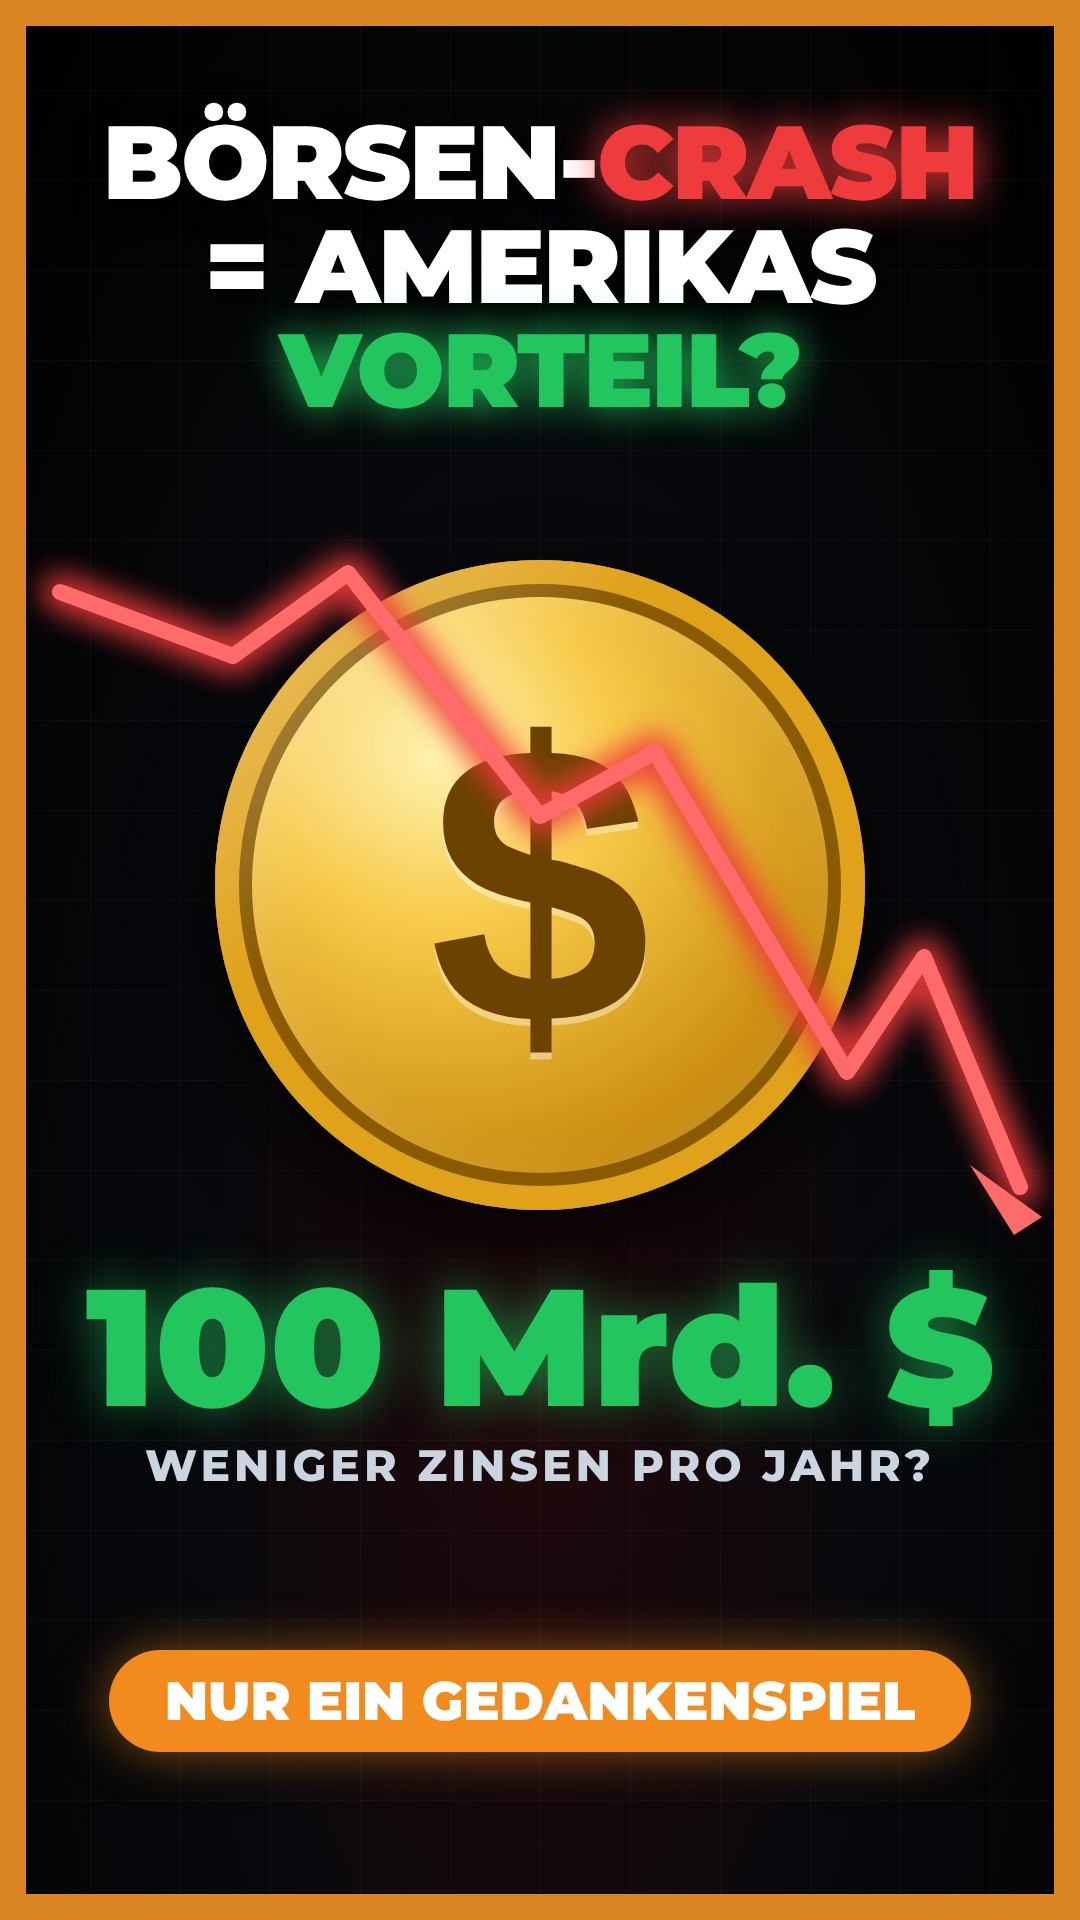
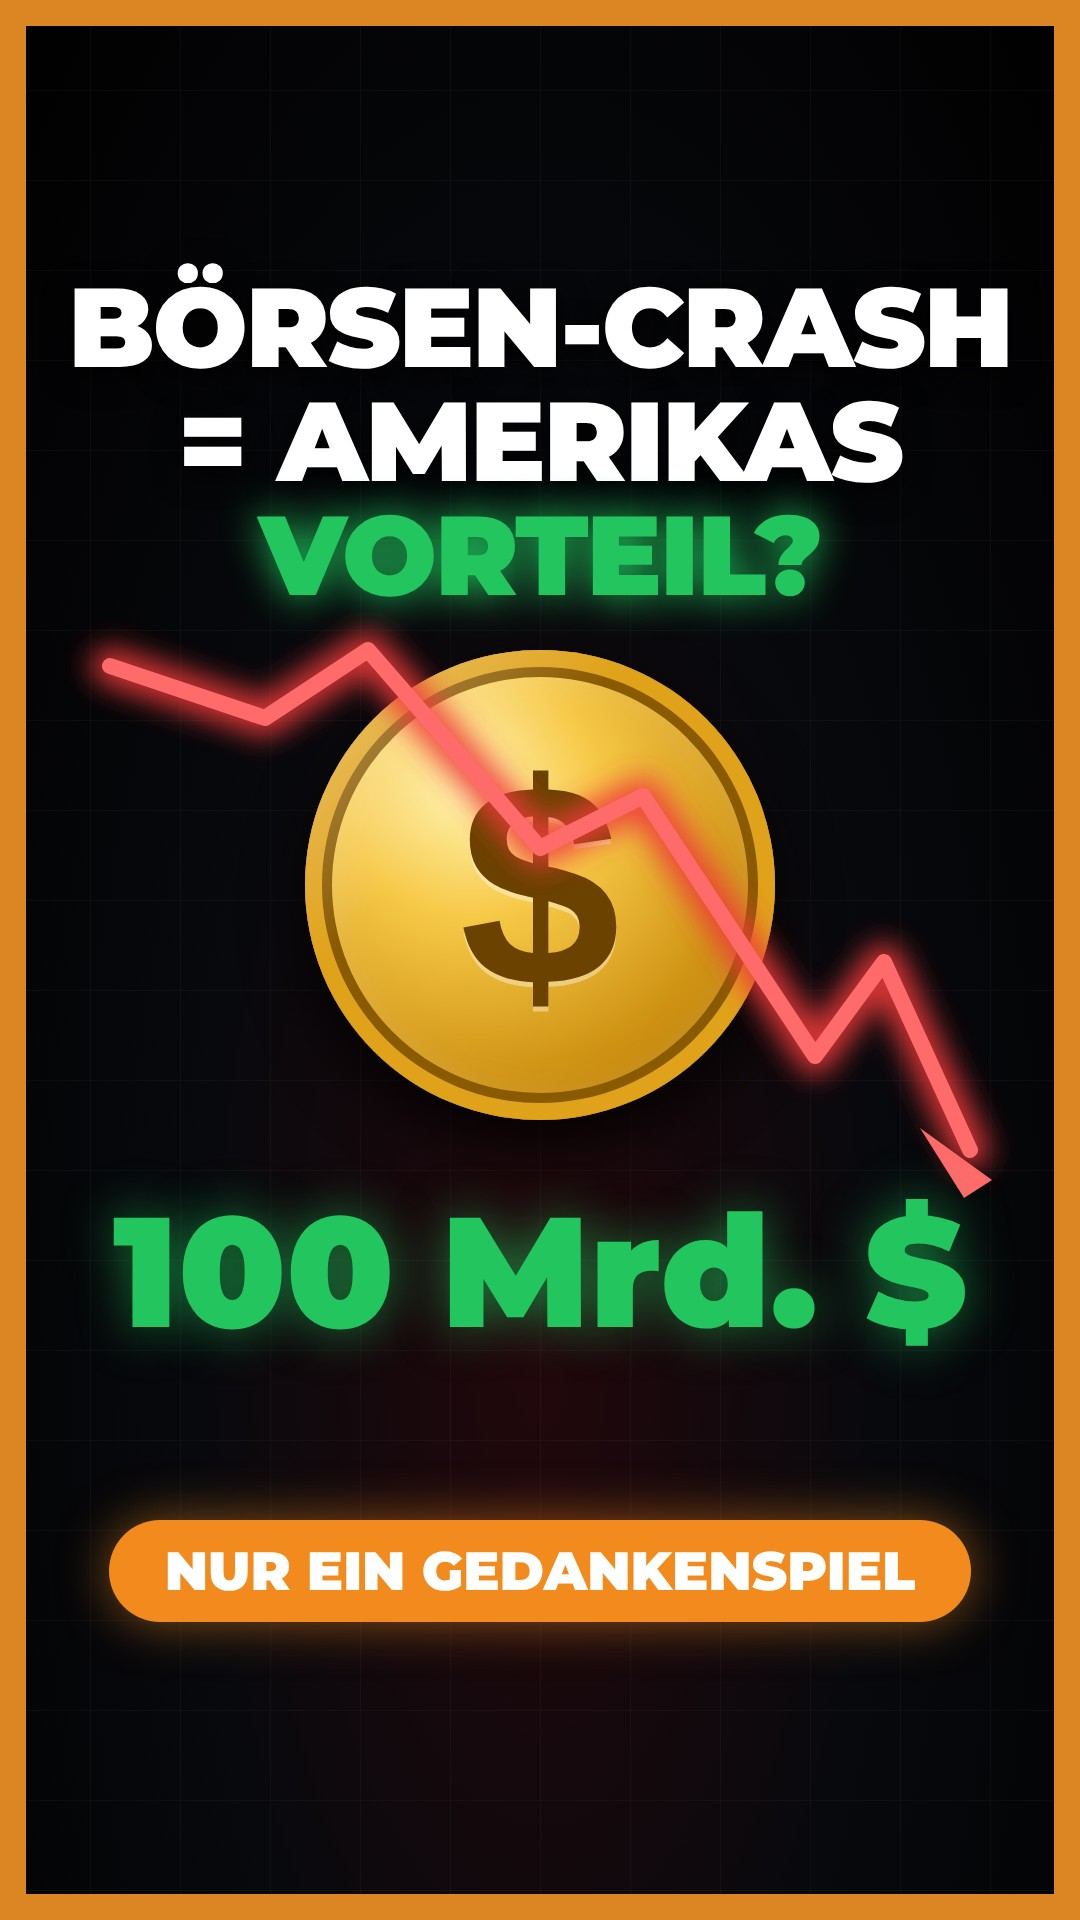
Cover in sicherer Zone (3:4-Raster Instagram/TikTok): crash D/E/F, rente, top1, teil3, nvidia
Claude-Session: https://claude.ai/code/session_01FsjuXdcJciSaWpvV4H8two

diff --git a/videos/crash-usa-schulden/covers_safe.py b/videos/crash-usa-schulden/covers_safe.py
@@ -1,0 +1,52 @@
+"""Covers mit SICHERER ZONE (Nutzer 24.11.: Instagram/TikTok schneiden im Profil-Raster oben/unten ab, 3:4-Ausschnitt).
+Alles Wichtige zwischen y = 250 und y = 1670; Schrift groß, keine Kleinsttexte."""
+import sys; sys.path.insert(0, "/home/user/tiktok-videos/scripts")
+import cover_dark as cd
+G, R, O = cd.G, cd.R, cd.O
+OUT = "/home/user/tiktok-videos/renders/thumbnails/"
+B = "/home/user/tiktok-videos/brand/"
+FALL = [(0.0, 0.05), (0.18, 0.15), (0.3, 0.02), (0.5, 0.4), (0.62, 0.3), (0.82, 0.8), (0.9, 0.62), (1.0, 0.98)]
+STEIG = [(0.0, 0.95), (0.2, 0.75), (0.32, 0.85), (0.52, 0.45), (0.66, 0.55), (0.84, 0.15), (1.0, 0.02)]
+PILLE_Y = 1520
+
+
+def mitte(d):
+    return (1080 - d) // 2
+
+
+# ===== Crash: D (Favorit), E, F =====
+cd.speichern(cd.BG + cd.kopf([("BÖRSEN-CRASH", None), ("= AMERIKAS", None), ("VORTEIL?", G)], y=270, gr=112)
+  + cd.coin(mitte(470), 650, 470) + cd.kurve(110, 640, 860, 520, FALL)
+  + cd.neon(1190, "100 Mrd. $", G, 156) + cd.pille(PILLE_Y, "NUR EIN GEDANKENSPIEL"), OUT + "crash-usa-schulden-tiktok.jpg")
+cd.speichern(cd.BG + cd.kopf([("WER", None), ("VERDIENT AM", None), ("CRASH?", R)], y=270, gr=124)
+  + cd.coin(-110, 700, 520, rot=-10) + cd.schild(440, 760, "DEIN DEPOT ▼", R, 5, 62) + cd.schild(400, 960, "USA ▲ 100 Mrd. $", G, -4, 58)
+  + cd.neon(1250, "40,71 Bio. $", "#fff", 130) + cd.pille(PILLE_Y, "NUR EIN GEDANKENSPIEL"), OUT + "crash-usa-schulden-E.jpg")
+cd.speichern(cd.BG + cd.kurve(40, 250, 1000, 300, [(0.0, 0.1), (0.2, 0.3), (0.32, 0.05), (0.52, 0.55), (0.66, 0.4), (0.84, 0.95), (1.0, 0.8)], z=2, dick=14)
+  + cd.kopf([("DEIN VERLUST.", None), ("IHR GEWINN?", "#f7c948")], y=440, gr=104)
+  + cd.coin(mitte(470), 730, 470) + cd.schild(600, 780, "+100 Mrd. $", G, 8, 58) + cd.schild(60, 1090, "CRASH ▼", R, -7, 62)
+  + cd.neon(1250, "40,71 Bio. $", "#fff", 120) + cd.pille(PILLE_Y, "NUR EIN GEDANKENSPIEL"), OUT + "crash-usa-schulden-F.jpg")
+
+# ===== Rente =====
+cd.speichern(cd.BG_GRUEN + cd.kopf([("RENTE STEIGT:", None), ("+4,09 %", G)], y=270, gr=132)
+  + cd.coin(mitte(440), 620, 440, zeichen="€") + cd.kurve(120, 600, 840, 480, STEIG, farbe=G, hell="#6ee7a0")
+  + cd.schild(40, 1090, "+61 € bei 1.500 €", G, -4, 50) + cd.schild(520, 1100, "BEITRAG ▲", R, 4, 50)
+  + cd.neon(1230, "DU ZAHLST MEHR?", R, 96) + cd.pille(PILLE_Y, "AB JULI 2027"), OUT + "rente-2027-plus-tiktok.jpg")
+
+# ===== Top 1 % =====
+punkte = "".join(f'<div style="width:46px;height:46px;border-radius:50%;background:{"radial-gradient(circle at 35% 30%,#fff3b0,#f7c948 40%,#8a5a00)" if i == 0 else "#222733"};'
+                 f'{"box-shadow:0 0 50px #f7c948;transform:scale(1.4)" if i == 0 else "border:2px solid #343b4d"}"></div>' for i in range(100))
+cd.speichern(cd.BG + cd.kopf([("DU UND DIE", None), ("REICHSTEN", None), ("1 %?", O)], y=270, gr=116)
+  + f'<div style="position:absolute;left:150px;top:660px;width:780px;display:grid;grid-template-columns:repeat(10,1fr);gap:10px;justify-items:center;z-index:3">{punkte}</div>'
+  + cd.neon(1230, "ab 2,3 Mio. €", G, 140) + cd.pille(PILLE_Y, "REICH IN DEUTSCHLAND"), OUT + "top-ein-prozent-tiktok.jpg")
+
+# ===== KI Teil 3 Roboter =====
+cd.speichern(cd.BG + cd.kopf([("ROBOTER:", None), ("HYPE ODER GELD?", O)], y=270, gr=112)
+  + cd.zahnrad(mitte(470), 640, 470) + cd.schild(40, 700, "603.000 in Fabriken", G, -5, 50) + cd.schild(380, 1060, "≈ 7.000 Humanoide", R, 4, 50)
+  + cd.neon(1230, "2,5 Mrd. $", G, 150) + cd.pille(PILLE_Y, "KI-SERIE · TEIL 3"), OUT + "ki-teil3-tiktok.jpg")
+
+# ===== Nvidia =====
+foto = (f'<div style="position:absolute;left:{mitte(480)}px;top:600px;width:480px;height:480px;border-radius:50%;overflow:hidden;border:14px solid {G};box-shadow:0 0 90px {G}88,0 40px 90px #000c;z-index:3">'
+        f'<img src="file://{B}fotos/jensen-huang.jpg" style="width:100%;height:100%;object-fit:cover;object-position:50% 18%"/></div>')
+cd.speichern(cd.BG_GRUEN + cd.kopf([("HUANG IST", None), ("ZURÜCK!", G)], y=270, gr=132) + foto
+  + f'<div style="position:absolute;left:30px;top:940px;z-index:6;transform:rotate(-6deg);padding:12px 26px;background:#fff;border-radius:16px;box-shadow:0 16px 40px #000a"><img src="file://{B}logos/nvidia.svg" style="height:64px;display:block"/></div>'
+  + cd.neon(1110, "+30 %", G, 210) + cd.pille(PILLE_Y, "NACH 11 TAGEN"), OUT + "nvidia-huang-zurueck-tiktok.jpg")

diff --git a/CLAUDE.md b/CLAUDE.md
@@ -41,6 +41,7 @@ Videos werden mit HyperFrames (HTML + GSAP → MP4) gebaut. Skills: `.claude/ski
 - **Covers (Nutzer 24.11.: „sehen schrecklich aus“):** Ursache war fehlende Schrift (Fallback Arial). `cover_hell.py` bindet jetzt Montserrat aus `brand/fonts/` ein. Neuer Stil: RIESIGE Überschrift (≈150 px, 2 Zeilen, Großbuchstaben), 2 große Kontrast-Karten (rot/grün) mit EINER fetten Zahl, dynamisches Element (Kurve/Pfeil), orange Pille unten, ganze Fläche nutzen (kein leeres Drittel). Vorbild: `videos/crash-usa-schulden/cover.py`.
 - **Cover-Hintergrund SCHWARZ (Nutzer 24.11., „hochwertiger“):** Stil = Mischung aus „Dark Glow“ (leuchtende Kurve, Neon-Zahl) und „Gold-Münze“ (goldene Dollar-Münze, rote/grüne Schilder). Geteilter Bildschirm rot/grün und weiße Karten = abgelehnt. Baukasten: `scripts/cover_dark.py` (coin, zahnrad, kurve, schild, neon, kopf, pille); Vorbilder: `videos/crash-usa-schulden/covers_neu.py` (Variante D = gewählt) und `covers_serie.py`. Immer 3 Varianten anbieten.
 - **Lieferung pro Video (Nutzer 24.11.), immer alles zusammen:** (1) MP4, (2) **3 verschiedene Cover** im schwarzen Stil (`scripts/cover_dark.py`, Dateien `<name>-A/B/C.jpg`, Favorit als `<name>-tiktok.jpg`), (3) **Beschreibung zum Kopieren** im Stil von @professorfinanzen: Hook-Zeile mit Emojis (🇺🇸📉), kurze Absätze mit den geprüften Zahlen, Gegenargument, Frage an die Community (💬 „Was glaubst du …?“), **📚 Quellen:** NUR die wirklich genutzten (Name + Link im Chat), Hashtags, dazu 10 Tags. Bei Referenz-Videos zusätzlich: Faktencheck der Original-Zahlen nennen.
+- **Cover-SICHERE ZONE (Nutzer 24.11.):** Instagram/TikTok zeigen im Profil-Raster nur den mittleren 3:4-Ausschnitt (oben/unten je ≈ 240 px abgeschnitten). ALLES Wichtige (Überschrift, Zahl, Pille) nur zwischen y = 250 und y = 1670, Schrift groß (Schilder ≥ 50 px), keine Kleinsttexte. Vorlage: `videos/crash-usa-schulden/covers_safe.py`. Vor Abgabe 3:4-Ausschnitt prüfen (`crop=1080:1440:0:240`).
 - Oranger Rahmen immer bei Video und Thumbnail
 - Kein Thema/keine Firma innerhalb von 30 Tagen wiederholen (auch nicht mit „neuem Blickwinkel“); Bereiche abwechseln, Börse/KI selten
 - Abend-Börsenrückblick startet immer mit „Alles, was heute an der Börse passiert ist – in 60 Sekunden.“
